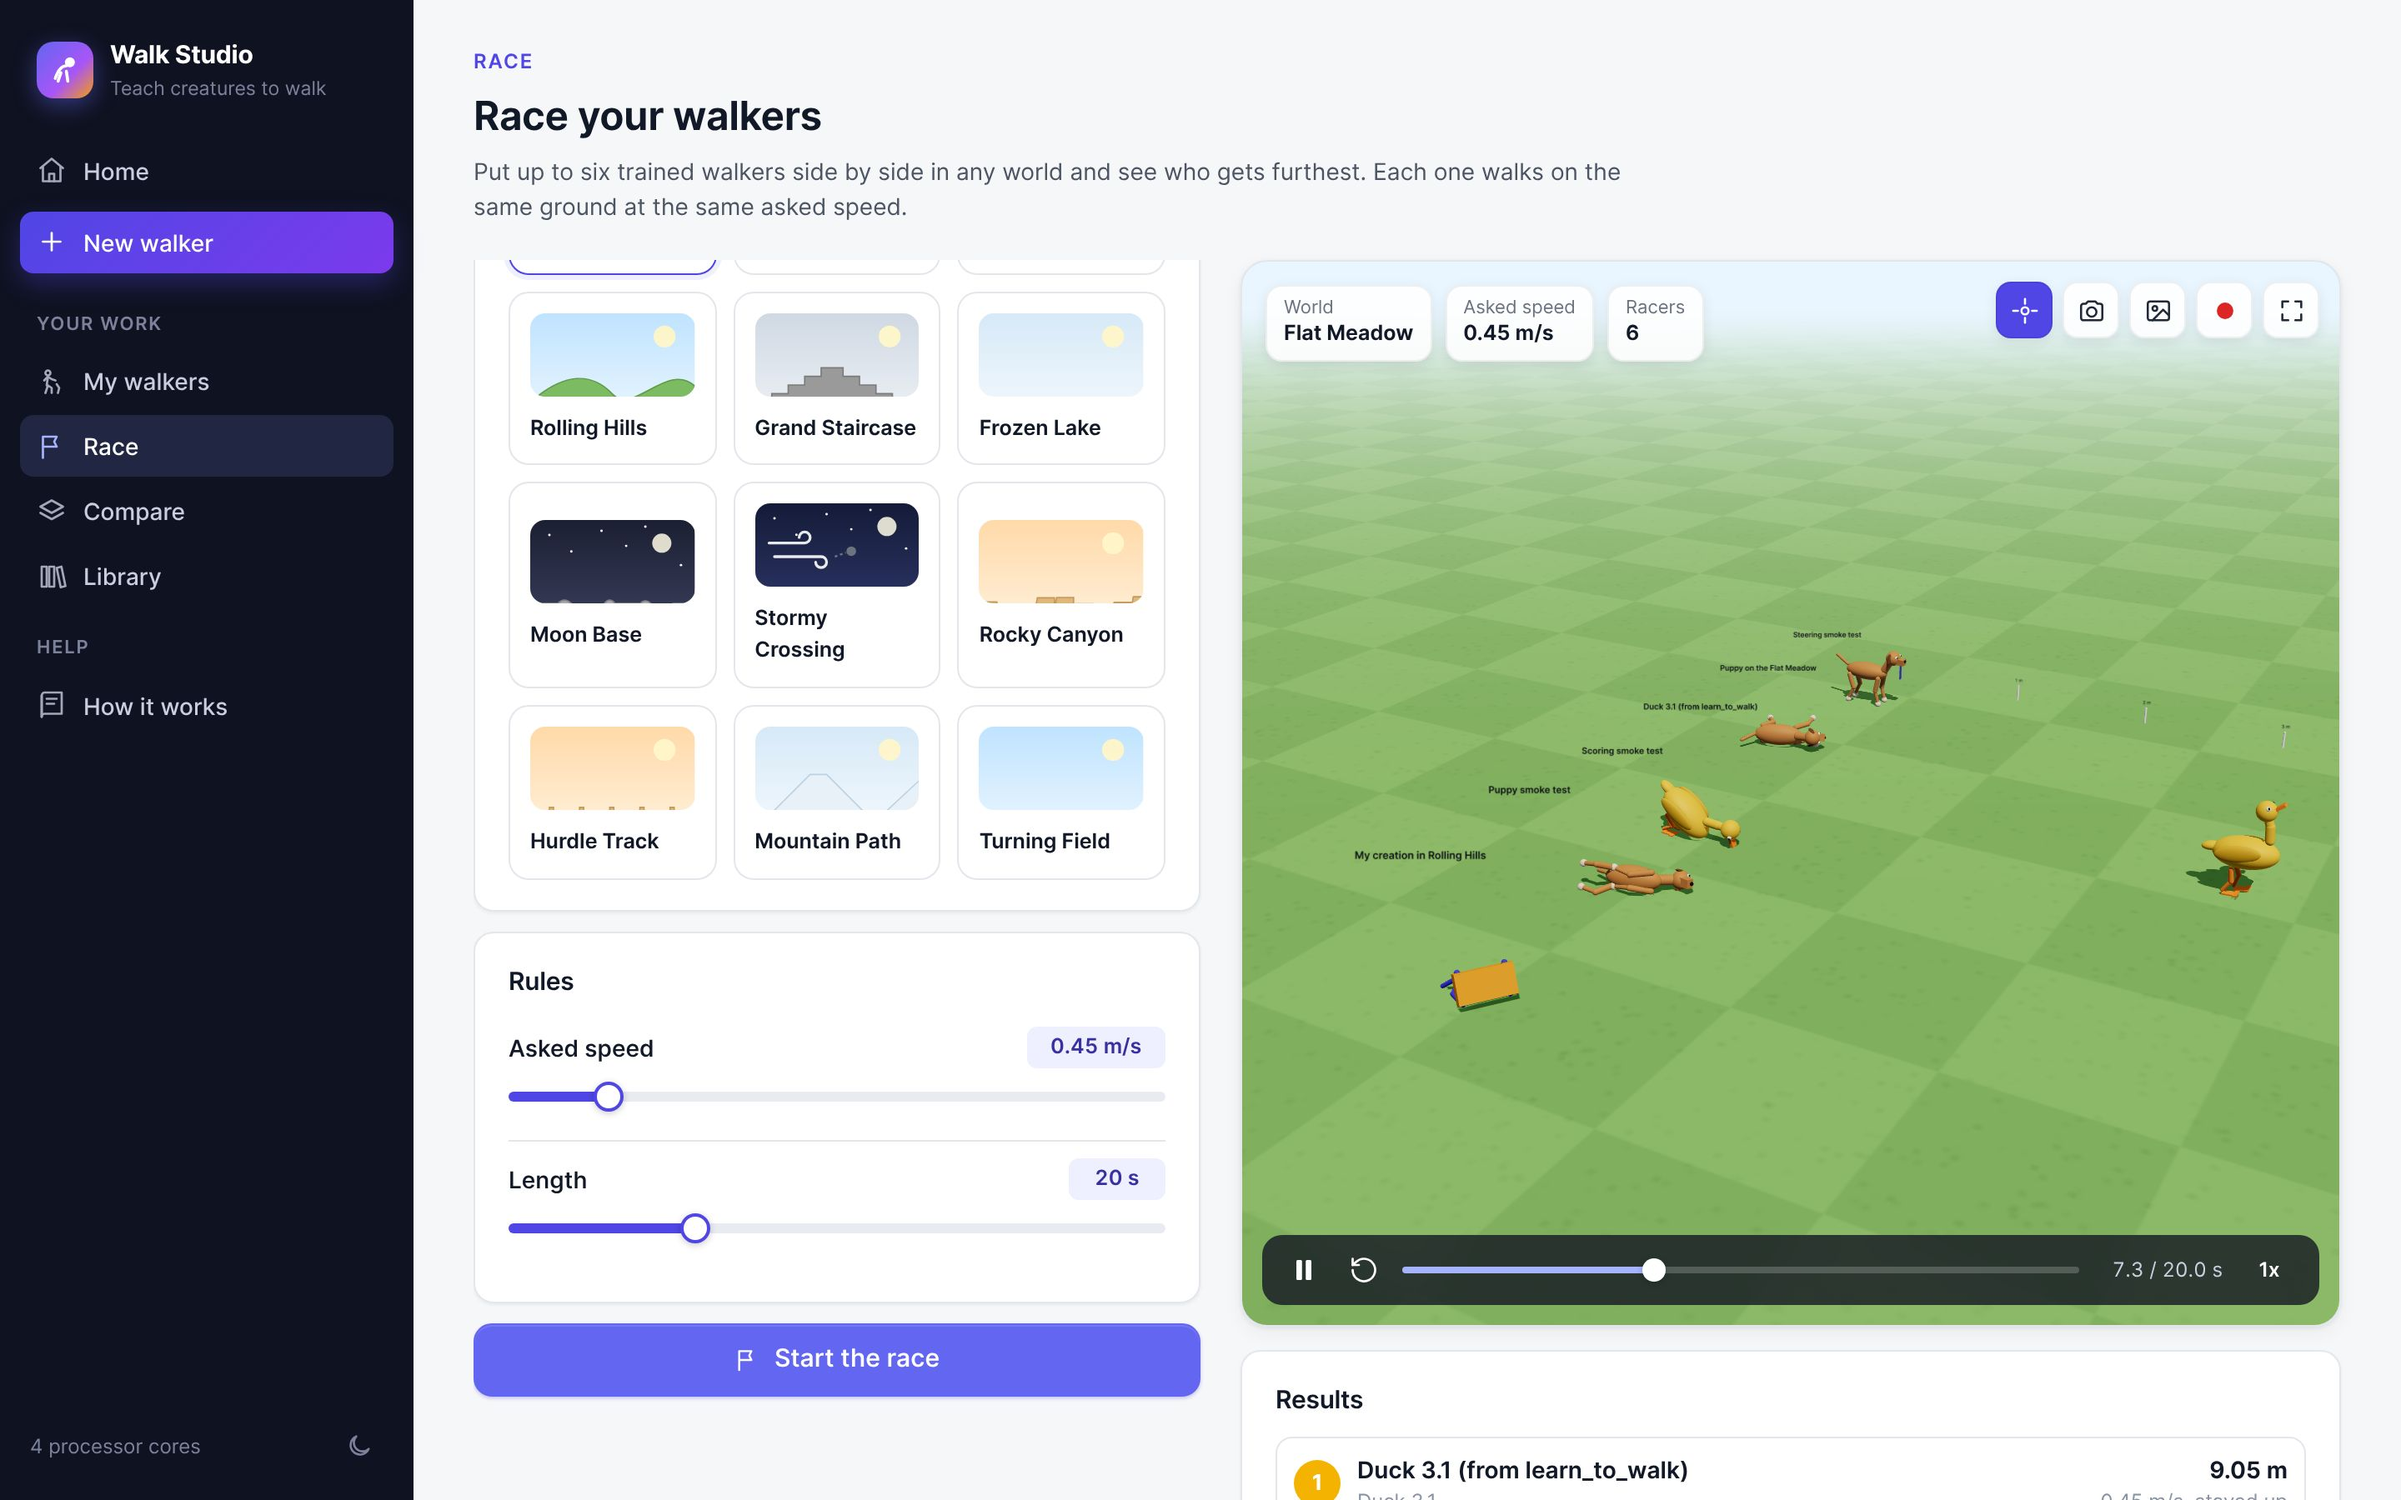
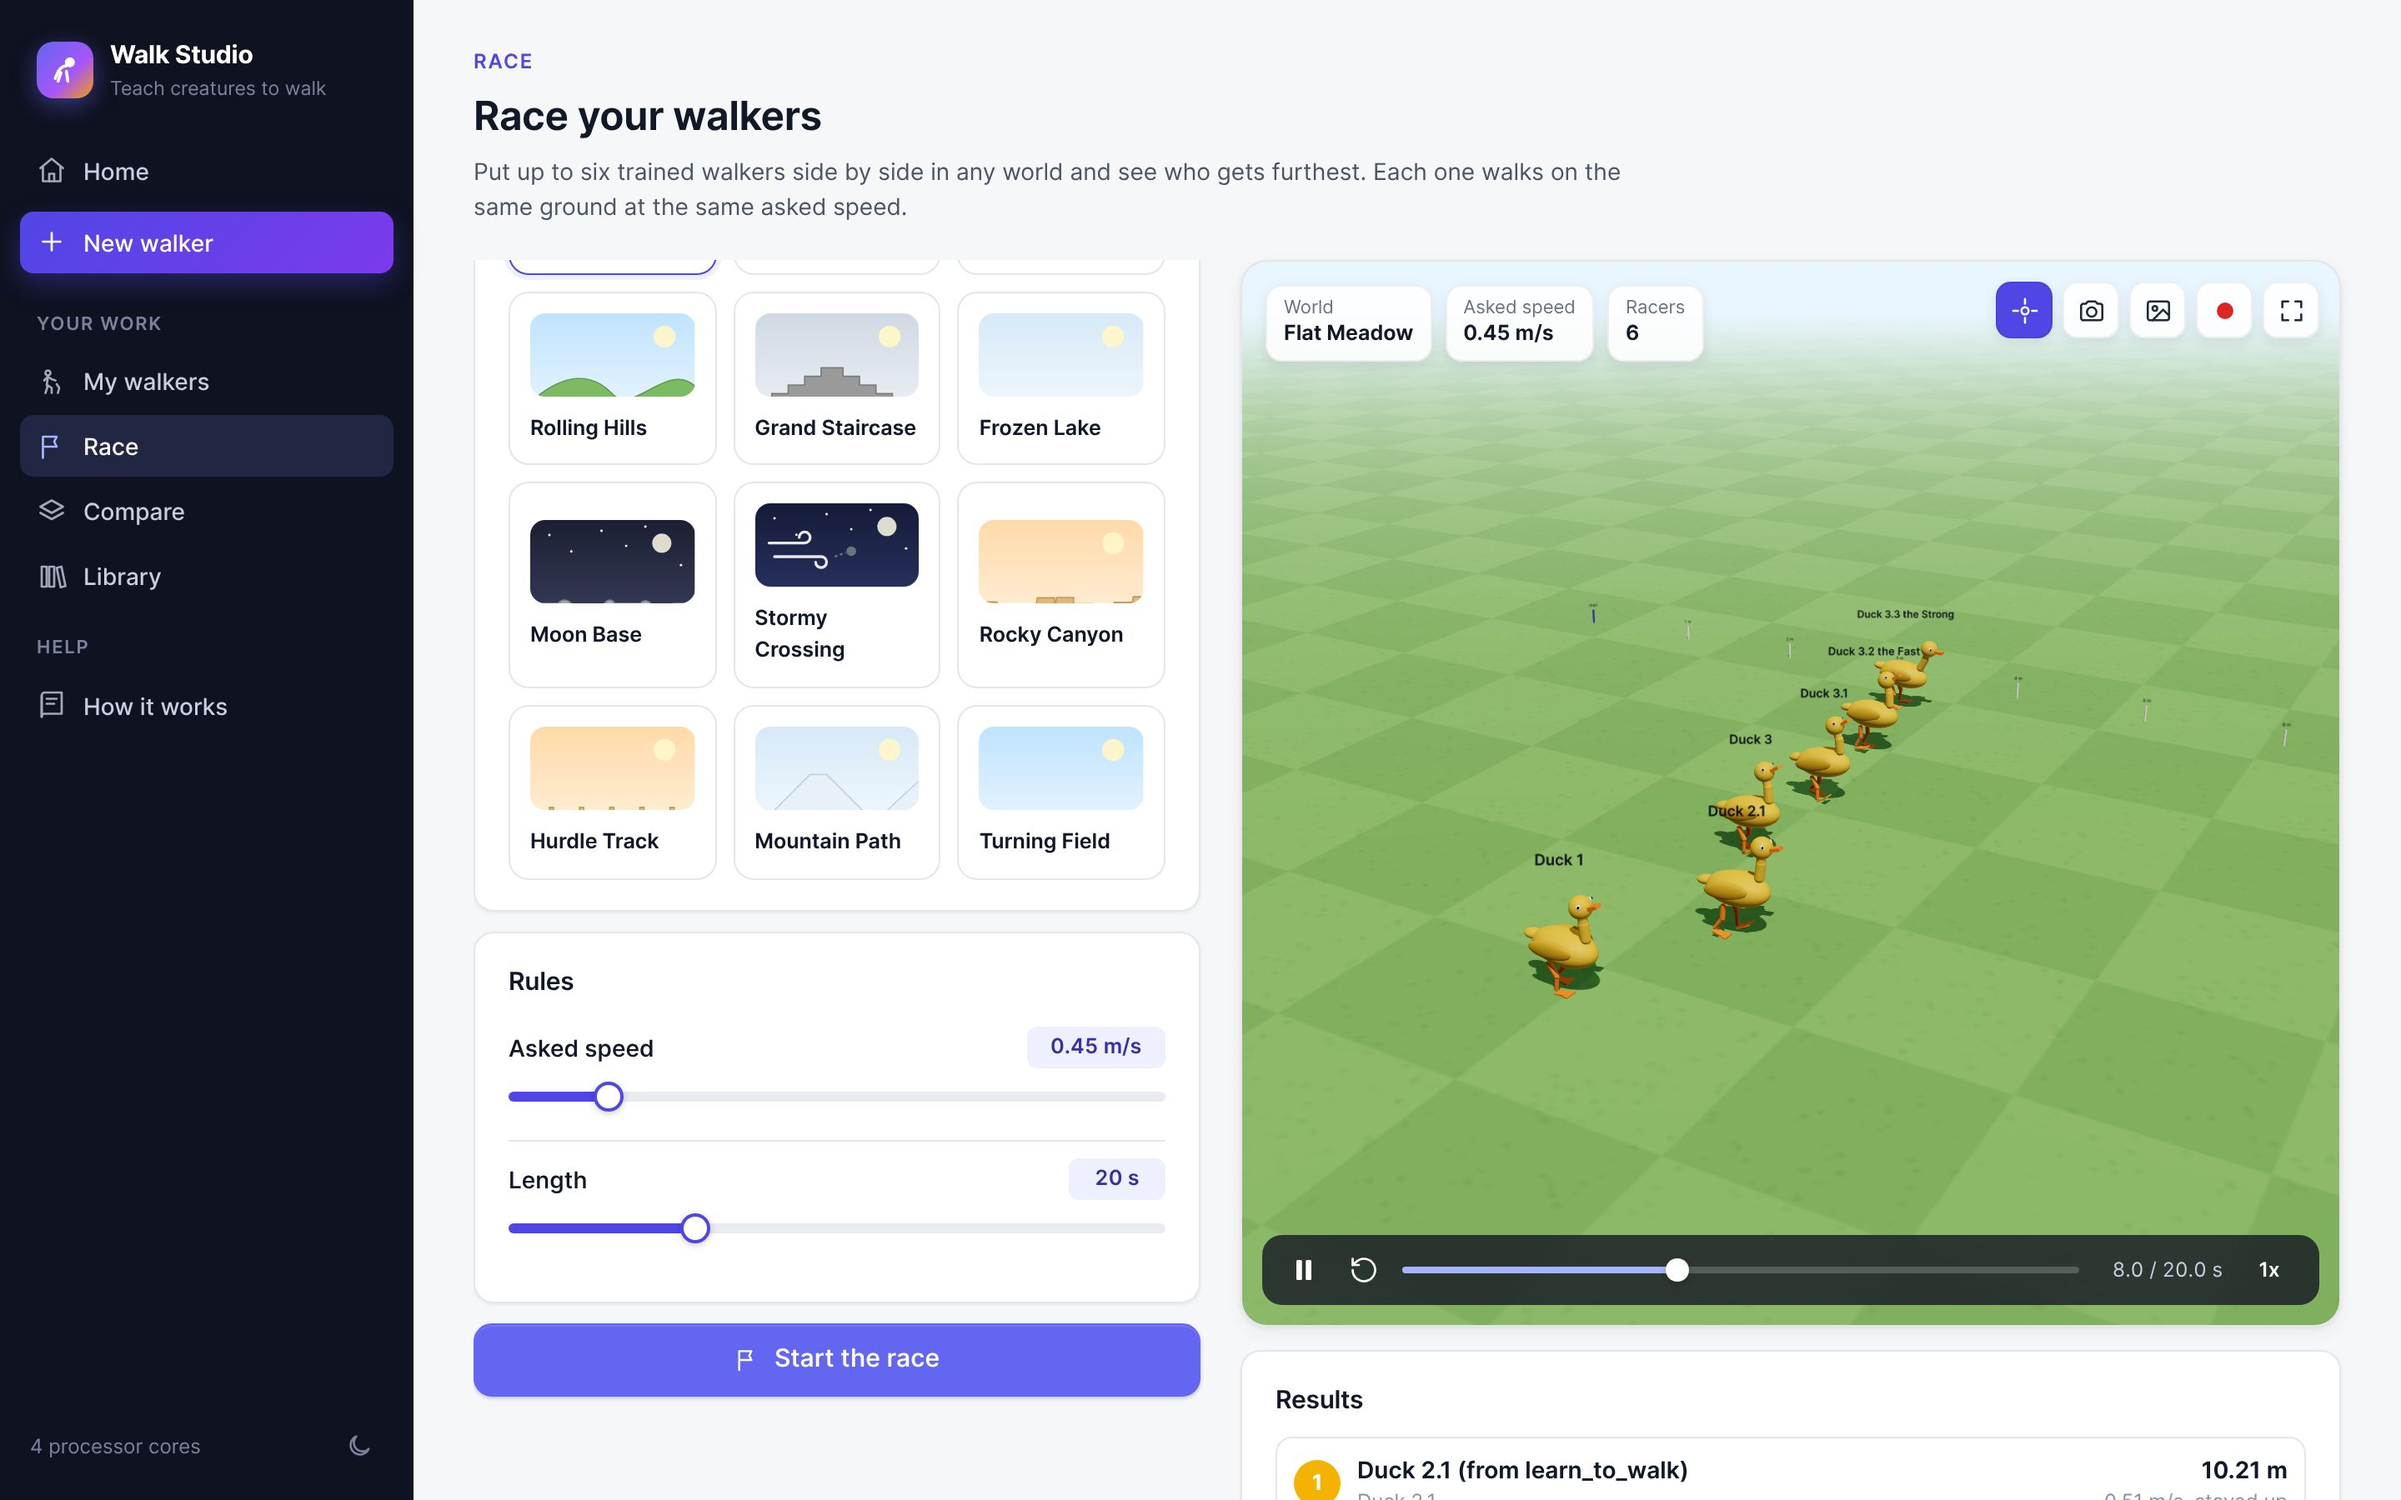
Float racers' names above them; README pictures from the learn_to_walk ducks
Claude-Session: https://claude.ai/code/session_018W1SX6cEKsbShUXcgx6KDd

diff --git a/studio/web/js/viewer.js b/studio/web/js/viewer.js
@@ -182,10 +182,15 @@ export class Viewer {
       texture.needsUpdate = true;
       this.world.add(heightsMesh(patch, style, texture, 0.5 * Math.max(size, 0.5)));
     }
+    // Name labels: fixed in place, or floating above a body (racers) and following it
+    this.labels = [];
     for (const label of replay.labels || []) {
       const sprite = textSprite(label.text, dark ? "#ffffff" : "#111827", 0.95);
-      sprite.position.set(label.x, label.y, label.z);
-      sprite.scale.multiplyScalar(1.6);
+      sprite.scale.multiplyScalar(2.2);
+      sprite.material.depthTest = false;  // always readable, never hidden behind a walker
+      sprite.renderOrder = 10;
+      if (label.body !== undefined) this.labels.push({ sprite, body: label.body, lift: label.z });
+      else sprite.position.set(label.x, label.y, label.z);
       this.world.add(sprite);
     }
     this._addMetreMarks(replay, style);
@@ -358,6 +363,10 @@ export class Viewer {
       qb.set(b[o + 4], b[o + 5], b[o + 6], b[o + 3]);
       group.quaternion.copy(qa.slerp(qb, blend));
     });
+    for (const label of this.labels || []) {
+      const body = this.bodyGroups[label.body];
+      if (body) label.sprite.position.set(body.position.x, body.position.y, label.lift);
+    }
     if (this.paceMarker) {
       const x = this.paceStart + replay.stats.target_speed * Math.min(seconds, replay.stats.seconds + 1);
       this.paceMarker.position.set(x, 0, this._groundHeight(replay, x, 0) + 0.004);

diff --git a/studio/previews.py b/studio/previews.py
@@ -176,8 +176,8 @@ def _merge_lanes(replays: list[dict], lane: float) -> dict:
         torsos.append(first)
         bodies += [f"{name}" for name in replay["bodies"]]
         shapes += [{**shape, "body": shape["body"] + first} for shape in replay["shapes"]]
-        labels.append({"text": replay["name"], "x": replay["frames"][0][0] - 0.35, "y": offset,
-                       "z": replay["stand_height"] * 1.9})
+        short = replay["name"].replace(" (from learn_to_walk)", "")
+        labels.append({"text": short, "body": first, "z": replay["stand_height"] * 2.4 + 0.12})
         ground = dict(replay["ground"])
         if ground.get("kind") == "heights":
             ground["y0"] = round(ground["y0"] + offset, 4)
